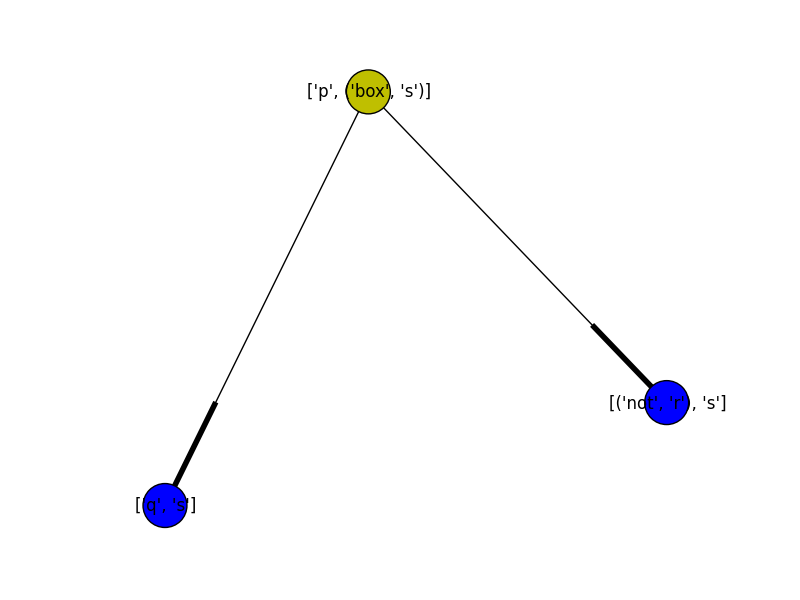
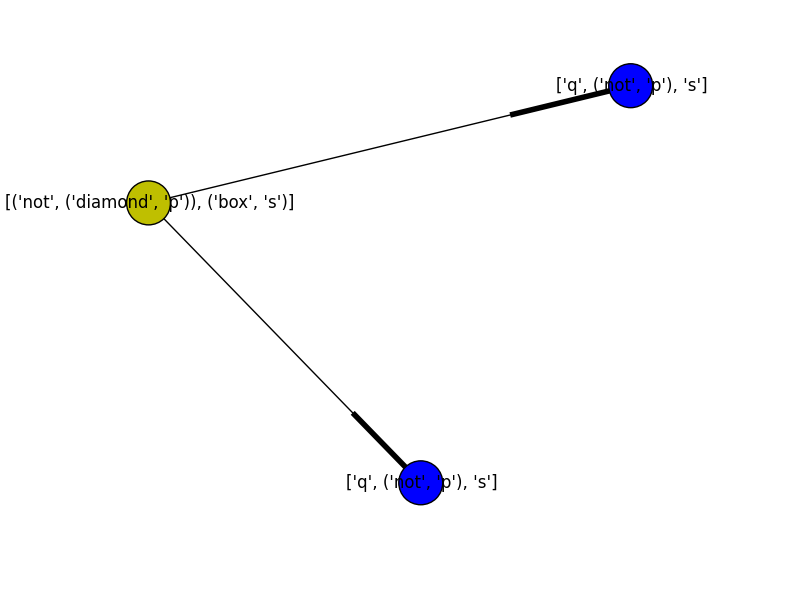
Logic K comp bug fixed

diff --git a/main_run.py b/main_run.py
@@ -26,8 +26,8 @@ Sets = [];
 Input String:
 """
 #str_phi = "(#p ^ (@r ^ ~(r > #q)))^~@q"
-#str_psi = "~(p > #r) ^  (@p >((@@@s^#t) V (#s ^ @q))) "# ^ (@s ^ @@#t)"
-str_psi = input.receive()
+str_psi = "(@q^(@p > ~##r)) ^  (@p V (#s ^ @q))"# ^ (@s ^ @@#t)"
+#str_psi = input.receive()
 print(str_psi)
 
 """
@@ -376,12 +376,13 @@ if index_inconsistent is not []:
         del Graphs[num];
 
 for graph in Graphs:
-    #dealing with gamma formulaes box and not diamond
+    #alpha
     for node in graph.nodes():
         alpha_list = graph.node[node]
         set = alpha_node(alpha_list)
-
         graph.node[node] = set
+    #dealing with gamma formulaes box and not diamond
+    '''
     for node in graph.nodes():
         gamma_list = graph.node[node]
         neighbors = graph.neighbors(node)
@@ -399,6 +400,7 @@ for graph in Graphs:
                 for num in neighbors:
                     graph.node[num].append(sub)
                     print graph.node[num]
+    '''
     #delta
     for node in graph.nodes():
         delta_list = graph.node[node]
@@ -445,6 +447,24 @@ for graph in Graphs:
                             graph.node[new_node].append(formula)
                         elif set[j][0] == 'box':
                             graph.node[new_node].append(set[j][1])
+
+    for node in graph.nodes():
+        gamma_list = graph.node[node]
+        neighbors = graph.neighbors(node)
+        for i in range(0,len(gamma_list)):
+            part1 = gamma_list[i]
+
+            if isinstance(part1, tuple) and part1[0] == 'box':
+                part2 = gamma_list[i][1]
+                for num in neighbors:
+                    graph.node[num].append(part2)
+
+            elif isinstance(part1, tuple) and part1[0] == 'not' and part1[1][0] == 'diamond':
+                part2 = gamma_list[i][1][1]
+                sub = ('not',part2)
+                for num in neighbors:
+                    graph.node[num].append(sub)
+                    print graph.node[num]
 #finding inconsistencies in the model
 index_inconsistent =[]
 for i in range(0,len(Graphs)):

diff --git a/graph.py b/graph.py
@@ -20,7 +20,7 @@ def create_graph2(G,nodes,Sets):
         node_colours.append('b')
     nx.draw(G,node_list = nodes,node_color=node_colours, labels=custom_labels, node_size=1000, with_labels = True)
 
-    plt.savefig("original_graph.png")
+    #plt.savefig("original_graph.png")
     plt.show()
     G_comp = nx.weakly_connected_component_subgraphs(G)
     '''

diff --git a/input.py b/input.py
@@ -21,7 +21,7 @@
 '''
     :input string
 '''
-str_psi = "~(p > #r) ^  (@p >((@@@s^#t) V (#s ^ @q))) "
+str_psi = "(@q^(@p > ~#r)) ^  (@p V (#s ^ @q)) "
 
 
 
@@ -31,5 +31,5 @@ str_psi = "~(p > #r) ^  (@p >((@@@s^#t) V (#s ^ @q))) "
 def receive():
     send_string = str_psi
     return send_string
-execfile('main_run.py')
+#execfile('main_run.py')
 
